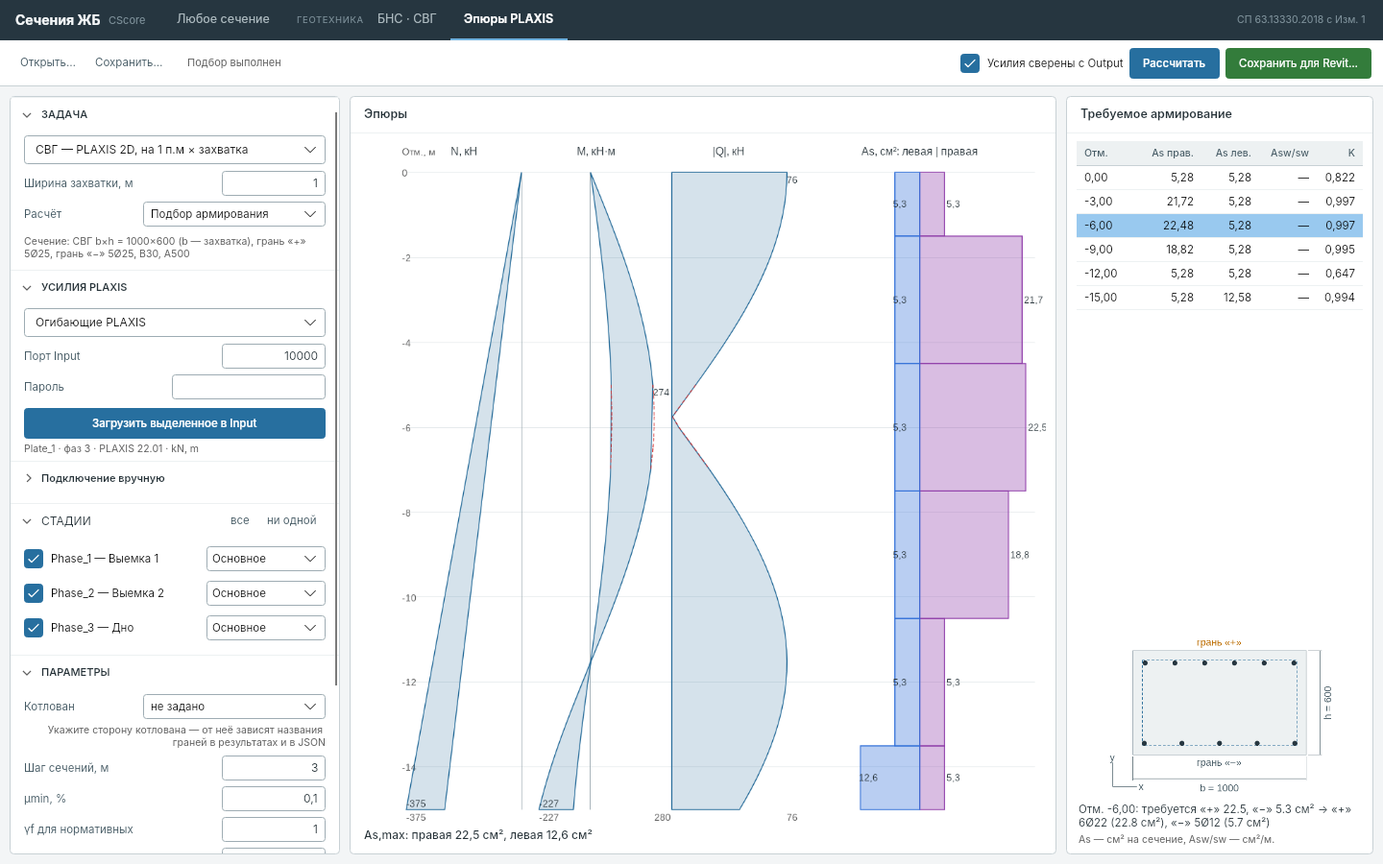
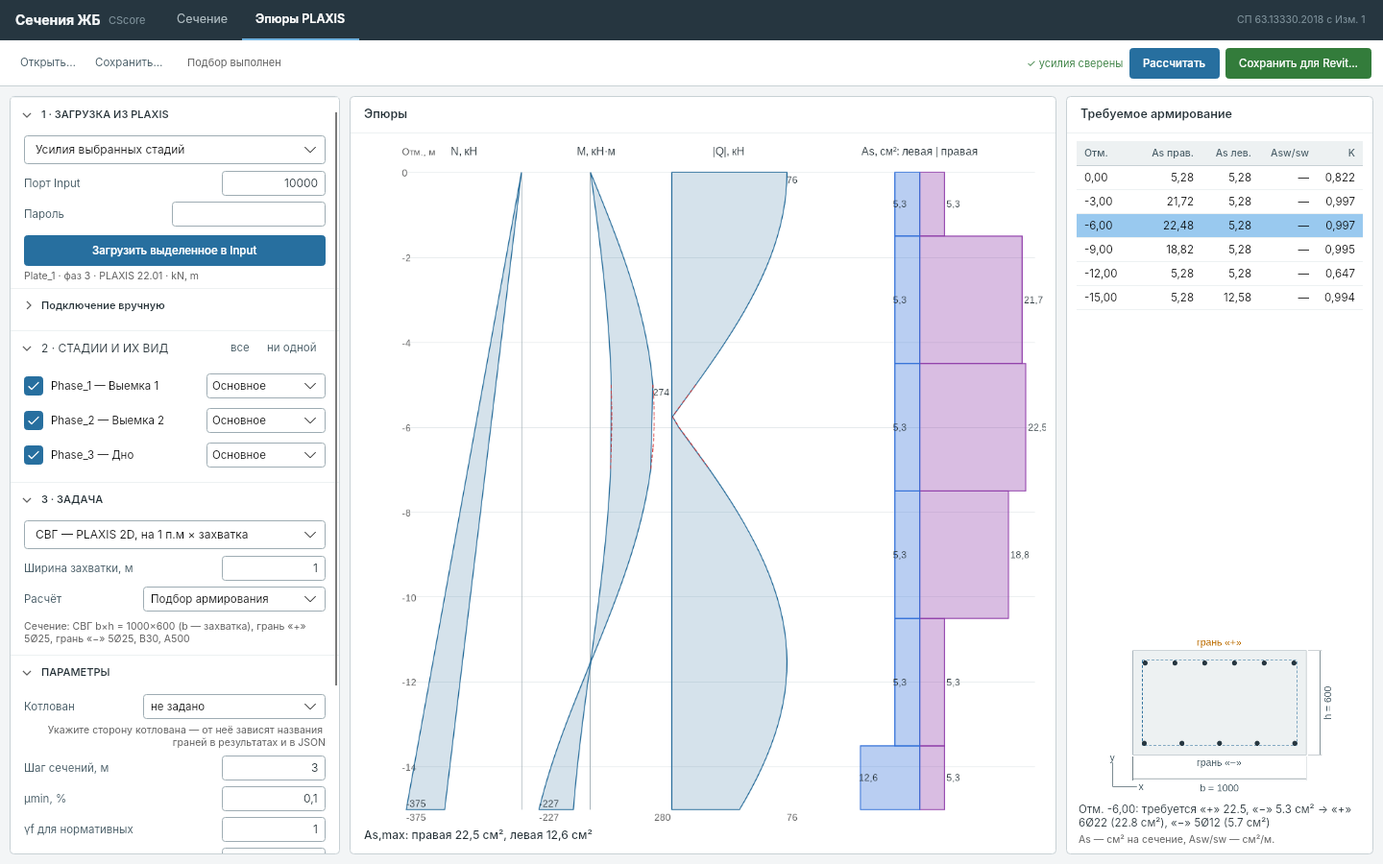
N–M diagram of the section strength (rays of the engine's ultimate factor), results row selects the combination; docs and screenshots
Claude-Session: https://claude.ai/code/session_017Mvt1uZU6GLNrsh8KdL19X

diff --git a/src/SectionCalc/Interaction.cs b/src/SectionCalc/Interaction.cs
@@ -1,0 +1,139 @@
+using SkiaSharp;
+
+namespace SectionCalc;
+
+/// <summary>A point of the interaction diagram: axial force (N &lt; 0 — compression) and moment in one plane.</summary>
+public sealed record InteractionPoint(double N, double M);
+
+/// <summary>A design combination on the diagram.</summary>
+public sealed record InteractionLoad(string Name, double N, double M, bool OtherPlane);
+
+/// <summary>
+/// Strength of the normal section in the plane N–Mx (or N–My): rays of proportional loading from the origin, the
+/// engine's ultimate factor of each ray gives a point of the boundary (portions of rays run in parallel).
+/// Section strength only: no accidental eccentricity, no η (they belong to the combinations, not to the section).
+/// </summary>
+public static class Interaction
+{
+    public const int Rays = 48;
+
+    public static List<InteractionPoint> Curve(SectionProject project, bool planeY, CancellationToken cancel = default)
+    {
+        var p = ProjectStore.Deserialize(ProjectStore.Serialize(project));
+        var c = p.Conditions;
+        c.Eccentricity = EccentricityMode.InLoads; c.SecondOrder = SecondOrderMode.SectionOnly; c.ShearCheck = false; c.InclinedMoment = false;
+        c.ReliabilityUls = 1; c.CrackCategory = CrackCategory.LimitedWidth; c.CoarseMesh = true;
+        // Rays far outside the section: every one fails, so the crack checks are skipped (they need passed strength).
+        var m = MaterialTables.Uls(p, new CombinationKind(false, false, false));
+        var layout = RequestBuilder.Layout(p);
+        var gross = Geometry.Gross(p);
+        double n0 = 3 * (m.Rb * gross.AreaMm2 + m.Rs * layout.SteelAreaMm2) / 1000;
+        double m0 = n0 * (planeY ? gross.HyMm : gross.HxMm) / 1000 / 3;
+        var rays = Enumerable.Range(0, Rays).Select(i =>
+        {
+            double a = 2 * Math.PI * i / Rays, n = n0 * Math.Cos(a), mm = m0 * Math.Sin(a);
+            return new LoadRow { Name = $"r{i}", N = n, Mx = planeY ? 0 : mm, My = planeY ? mm : 0, LoadFactor = 1, SustainedShare = 1 };
+        }).ToList();
+        // Portions of rays in parallel (coarse mesh, as the capacity search of the 3D view).
+        var factors = new double?[Rays];
+        int portion = Math.Max(1, (int)Math.Ceiling(Rays / (double)Math.Max(1, Environment.ProcessorCount)));
+        Parallel.ForEach(Enumerable.Range(0, (Rays + portion - 1) / portion),
+            new ParallelOptions { CancellationToken = cancel, MaxDegreeOfParallelism = Environment.ProcessorCount }, part =>
+        {
+            var q = ProjectStore.Deserialize(ProjectStore.Serialize(p));
+            q.Conditions.CoarseMesh = true;
+            q.Loads = rays.Skip(part * portion).Take(portion).ToList();
+            var r = Engine.Check(q, cancel);
+            foreach (var l in q.Loads)
+                if (r.Cases.TryGetValue(l.Name, out var info)) factors[int.Parse(l.Name[1..])] = info.UltimateFactor;
+        });
+        var curve = new List<InteractionPoint>();
+        for (int i = 0; i < Rays; i++)
+            if (factors[i] is double k && double.IsFinite(k) && k > 0)
+                curve.Add(new InteractionPoint(k * rays[i].N, k * (planeY ? rays[i].My : rays[i].Mx)));
+        return curve;
+    }
+
+    /// <summary>Design combinations in the plane (with γn), the moments as given (before ea and η).</summary>
+    public static List<InteractionLoad> Loads(SectionProject p, bool planeY) => p.Loads.Select(l =>
+    {
+        double gn = l.Special && !l.Seismic ? 1 : p.Conditions.ReliabilityUls;
+        return new InteractionLoad(l.Name.Trim(), l.N * gn, (planeY ? l.My : l.Mx) * gn, Math.Abs(planeY ? l.Mx : l.My) > 1e-9);
+    }).ToList();
+
+    static readonly SKColor Grid = SKColor.Parse("#e3e8ea"), Text = SKColor.Parse("#455a64"), Curve0 = SKColor.Parse("#216897"),
+        Fill = SKColor.Parse("#216897").WithAlpha(28), Point = SKColor.Parse("#263640"), Selected = SKColor.Parse("#d32f2f"), Other = SKColor.Parse("#bd6d00");
+
+    /// <summary>The diagram: M across, compression up (−N), the boundary and the combinations; the selected one in red.</summary>
+    public static byte[] Png(IReadOnlyList<InteractionPoint> curve, IReadOnlyList<InteractionLoad> loads, string? selected, bool planeY,
+        int width = 900, int height = 620, float font = 15)
+    {
+        using var surface = SKSurface.Create(new SKImageInfo(width, height, SKColorType.Rgba8888, SKAlphaType.Premul));
+        var canvas = surface.Canvas;
+        canvas.Clear(SKColors.White);
+        if (curve.Count < 3) return Encode(surface);
+        var xs = curve.Select(c => c.M).Concat(loads.Select(l => l.M)).ToList();
+        var ys = curve.Select(c => -c.N).Concat(loads.Select(l => -l.N)).ToList();
+        double x0 = xs.Min(), x1 = xs.Max(), y0 = ys.Min(), y1 = ys.Max();
+        double padX = (x1 - x0) * 0.06 + 1e-6, padY = (y1 - y0) * 0.06 + 1e-6;
+        (x0, x1, y0, y1) = (x0 - padX, x1 + padX, y0 - padY, y1 + padY);
+        float left = font * 4.2f, right = width - font, top = font * 1.6f, bottom = height - font * 2;
+        SKPoint P(double m, double negN) => new(left + (float)((m - x0) / (x1 - x0)) * (right - left), bottom - (float)((negN - y0) / (y1 - y0)) * (bottom - top));
+        using var f = new SKFont(SectionSketch.Typeface(), font);
+        using var text = new SKPaint { Color = Text, IsAntialias = true };
+        using var grid = new SKPaint { Color = Grid, StrokeWidth = 1, IsAntialias = true };
+        foreach (var (v, vertical) in Ticks(x0, x1).Select(v => (v, true)).Concat(Ticks(y0, y1).Select(v => (v, false))))
+        {
+            if (vertical)
+            {
+                var a = P(v, y0); canvas.DrawLine(a.X, top, a.X, bottom, grid);
+                SectionSketch.Label(canvas, Fmt(v), a.X, bottom + font * 1.3f, SKTextAlign.Center, f, text);
+            }
+            else
+            {
+                var a = P(x0, v); canvas.DrawLine(left, a.Y, right, a.Y, grid);
+                SectionSketch.Label(canvas, Fmt(v), font * 0.4f, a.Y + font * 0.35f, SKTextAlign.Left, f, text);
+            }
+        }
+        using var axis = new SKPaint { Color = SKColor.Parse("#9eacb3"), StrokeWidth = 1.2f, IsAntialias = true };
+        canvas.DrawLine(P(0, y0).X, top, P(0, y0).X, bottom, axis);
+        canvas.DrawLine(left, P(x0, 0).Y, right, P(x0, 0).Y, axis);
+        SectionSketch.Label(canvas, planeY ? "My, кН·м" : "Mx, кН·м", right - font * 4, P(x0, 0).Y - font * 0.5f, SKTextAlign.Center, f, text);
+        SectionSketch.Label(canvas, "−N, кН (сжатие вверх)", left + 4, top + font, SKTextAlign.Left, f, text);
+
+        using var path = new SKPath();
+        path.MoveTo(P(curve[0].M, -curve[0].N));
+        foreach (var c in curve.Skip(1)) path.LineTo(P(c.M, -c.N));
+        path.Close();
+        using var fill = new SKPaint { Color = Fill, IsAntialias = true };
+        using var line = new SKPaint { Color = Curve0, StrokeWidth = 2.2f, Style = SKPaintStyle.Stroke, IsAntialias = true };
+        canvas.DrawPath(path, fill);
+        canvas.DrawPath(path, line);
+
+        foreach (var l in loads.OrderBy(l => l.Name == selected))
+        {
+            bool sel = l.Name == selected;
+            var at = P(l.M, -l.N);
+            using var dot = new SKPaint { Color = sel ? Selected : l.OtherPlane ? Other : Point, IsAntialias = true };
+            canvas.DrawCircle(at, sel ? font * 0.42f : font * 0.3f, dot);
+            SectionSketch.Label(canvas, l.Name, at.X + font * 0.5f, at.Y - font * 0.4f, SKTextAlign.Left, f, sel ? dot : text);
+        }
+        return Encode(surface);
+    }
+
+    static byte[] Encode(SKSurface surface)
+    {
+        using var image = surface.Snapshot();
+        using var data = image.Encode(SKEncodedImageFormat.Png, 100);
+        return data.ToArray();
+    }
+
+    static string Fmt(double v) => v.ToString("0", System.Globalization.CultureInfo.GetCultureInfo("ru-RU"));
+
+    static IEnumerable<double> Ticks(double lo, double hi)
+    {
+        double raw = (hi - lo) / 6, mag = Math.Pow(10, Math.Floor(Math.Log10(raw)));
+        double step = new[] { 1, 2, 2.5, 5, 10 }.Select(k => k * mag).First(s => s >= raw);
+        for (double v = Math.Ceiling(lo / step) * step; v <= hi; v += step) yield return Math.Abs(v) < step * 1e-9 ? 0 : v;
+    }
+}

diff --git a/src/SectionApp/ViewModels/MainViewModel.cs b/src/SectionApp/ViewModels/MainViewModel.cs
@@ -30,7 +30,7 @@ public partial class MainViewModel : ObservableObject, INotifyDataErrorInfo
     [
         nameof(Sketch), nameof(IsBusy), nameof(StatusText), nameof(Progress), nameof(ShowProgress), nameof(HasResult),
         nameof(ResultIsStale), nameof(VerdictText), nameof(VerdictTone), nameof(GoverningText), nameof(InputErrors),
-        nameof(HasInputErrors), nameof(SelectionSummary), nameof(HasSelection), nameof(SteelText), nameof(SelectedTab),
+        nameof(HasInputErrors), nameof(SelectionSummary), nameof(HasSelection), nameof(SteelText), nameof(SelectedTab), nameof(InteractionImage), nameof(InteractionStatus), nameof(InteractionPlaneIndex), nameof(SelectedCombination), nameof(ShowInteraction),
         nameof(VerdictOk), nameof(VerdictBad), nameof(VerdictWarn), nameof(VerdictInfo), nameof(IsWall), nameof(IsPile), nameof(IsCustom),
         nameof(IsGeotech), nameof(KindTitle), nameof(EtaByCscore), nameof(SelectedLoad), nameof(SelectedBar), nameof(SelectedVertex),
         nameof(AxisText), nameof(L0Text), nameof(HasGoverning), nameof(CombinationHeaders), nameof(ProfileMode), nameof(IsSectionMode),
@@ -372,7 +372,69 @@ public partial class MainViewModel : ObservableObject, INotifyDataErrorInfo
     public bool CanCheck => !HasInputErrors;
     [ObservableProperty] string selectionSummary = "";
     [ObservableProperty] bool hasSelection;
+    /// <summary>Tabs of the results: 0 — checks by combination, 1 — the N–M diagram, 2 — selection.</summary>
     [ObservableProperty] int selectedTab;
+    public const int TabChecks = 0, TabDiagram = 1, TabSelection = 2;
+    partial void OnSelectedTabChanged(int value) { if (value == TabDiagram) RefreshInteraction(); }
+
+    // ---- the N–M diagram: the strength of the section and the combinations ----
+
+    [ObservableProperty] Bitmap? interactionImage;
+    [ObservableProperty] string interactionStatus = "";
+    public bool ShowInteraction => InteractionImage is not null;
+    partial void OnInteractionImageChanged(Bitmap? value) => OnPropertyChanged(nameof(ShowInteraction));
+    /// <summary>0 — the plane of Mx, 1 — of My.</summary>
+    [ObservableProperty] int interactionPlaneIndex;
+    public IReadOnlyList<string> InteractionPlanes { get; } = ["N–Mx", "N–My"];
+    partial void OnInteractionPlaneIndexChanged(int value) => RefreshInteraction();
+    List<InteractionPoint>? curve;
+    string? curveKey;
+    CancellationTokenSource? curveCancel;
+
+    /// <summary>The selected combination in the results table: selects the row of the forces and the point on the diagram.</summary>
+    [ObservableProperty] CombinationRowViewModel? selectedCombination;
+    partial void OnSelectedCombinationChanged(CombinationRowViewModel? value)
+    {
+        if (value is not null && Loads.FirstOrDefault(l => l.Name.Trim() == value.Source) is { } row) SelectedLoad = row;
+    }
+    partial void OnSelectedLoadChanged(LoadRowViewModel? value) => DrawInteraction();
+
+    /// <summary>The curve depends on the section and materials, not on the forces: it is kept while they stay.</summary>
+    static string CurveKey(SectionProject p, bool planeY) => System.Text.Json.JsonSerializer.Serialize(new
+    {
+        p.Kind, Geometry = p.Kind switch { SectionKind.Pile => (object)p.Pile, SectionKind.Wall => p.Wall, _ => p.Custom },
+        p.ConcreteClass, p.RebarClass, p.Concrete, p.LongitudinalFactor, p.RscByTable, planeY,
+    });
+
+    async void RefreshInteraction()
+    {
+        if (SelectedTab != TabDiagram || TryBuild(out _) is not { } p) return;
+        bool planeY = InteractionPlaneIndex == 1;
+        string key = CurveKey(p, planeY);
+        if (key == curveKey && curve is not null) { DrawInteraction(); return; }
+        curveCancel?.Cancel();
+        var cts = curveCancel = new CancellationTokenSource();
+        InteractionStatus = "Строится диаграмма несущей способности…";
+        try
+        {
+            var points = await Task.Run(() => Interaction.Curve(p, planeY, cts.Token), cts.Token);
+            if (cts.IsCancellationRequested) return;
+            (curve, curveKey) = (points, key);
+            InteractionStatus = "";
+            DrawInteraction();
+        }
+        catch (OperationCanceledException) { }
+        catch (Exception ex) { InteractionStatus = "Диаграмма не построена: " + ex.Message; }
+    }
+
+    void DrawInteraction()
+    {
+        if (curve is null || SelectedTab != TabDiagram || TryBuild(out _, quiet: true) is not { } p) return;
+        bool planeY = InteractionPlaneIndex == 1;
+        if (curveKey != CurveKey(p, planeY)) { RefreshInteraction(); return; }
+        using var stream = new MemoryStream(Interaction.Png(curve, Interaction.Loads(p, planeY), SelectedLoad?.Name.Trim(), planeY, 1000, 600, 19));
+        InteractionImage = new Bitmap(stream);
+    }
     [ObservableProperty] LoadRowViewModel? selectedLoad;
 
     protected override void OnPropertyChanged(PropertyChangedEventArgs e)
@@ -931,6 +993,7 @@ public partial class MainViewModel : ObservableObject, INotifyDataErrorInfo
         CombinationRows.Clear();
         foreach (var line in ReportWriter.Combinations(r)) CombinationRows.Add(new CombinationRowViewModel(line));
         CombinationHeaders = ReportWriter.CombinationHeaders(r);
+        if (SelectedTab == TabDiagram) DrawInteraction();
         StatusText = $"Рассчитано {DateTime.Now:HH:mm:ss}";
     }
 
@@ -939,7 +1002,7 @@ public partial class MainViewModel : ObservableObject, INotifyDataErrorInfo
         lastSelection = s;
         SelectionRows.Clear();
         foreach (var o in s.Outcomes) SelectionRows.Add(new SelectionRowViewModel(o, o == s.Best, this));
-        HasSelection = true; SelectedTab = 1;
+        HasSelection = true; SelectedTab = TabSelection;
         SelectionSummary = s.Best is SelectionOutcome best
             ? $"Минимальное армирование: {best.Candidate.Description}, As = {best.Candidate.SteelAreaMm2.ToString("0", Ru)} мм²."
             : "В заданном диапазоне подходящих вариантов нет.";
@@ -961,7 +1024,7 @@ public partial class MainViewModel : ObservableObject, INotifyDataErrorInfo
             foreach (var o in keepSelection.Outcomes) SelectionRows.Add(new SelectionRowViewModel(o, o == keepSelection.Best, this));
         }
         await Check();
-        SelectedTab = 0;
+        SelectedTab = TabChecks;
     }
 
     void ClearResults()

diff --git a/tests/SectionCalc.Tests/CustomSectionTests.cs b/tests/SectionCalc.Tests/CustomSectionTests.cs
@@ -131,6 +131,25 @@ public class CustomSectionTests
     }
 
     [Fact]
+    public void InteractionDiagramOfOneEngineRequest()
+    {
+        var p = SectionProject.Example(SectionKind.Wall);
+        p.RscByTable = false;
+        var curve = Interaction.Curve(p, planeY: false);
+        Assert.True(curve.Count >= Interaction.Rays - 4, $"{curve.Count} points");
+        // Pure compression: N = Rb·A + Rs·As (Rsc = Rs here).
+        var m = MaterialTables.Uls(p, new CombinationKind(false, false, false));
+        double nult = (m.Rb * 1000 * 600 + m.Rs * RequestBuilder.Layout(p).SteelAreaMm2) / 1000;
+        Assert.Equal(nult, -curve.Min(c => c.N), nult * 0.03);
+        // Symmetric bars: Mult of both signs at N = 0 are equal; tension is limited by the bars alone.
+        double Near(double sign) => curve.Where(c => Math.Sign(c.M) == sign).OrderBy(c => Math.Abs(c.N)).First().M;
+        Assert.Equal(Near(1), -Near(-1), Math.Abs(Near(1)) * 0.08);
+        Assert.True(curve.Max(c => c.N) <= m.Rs * RequestBuilder.Layout(p).SteelAreaMm2 / 1000 * 1.01);
+        var png = Interaction.Png(curve, Interaction.Loads(p, false), "1", false);
+        Assert.True(png.Length > 5000);
+    }
+
+    [Fact]
     public void ProjectRoundTrip()
     {
         var p = SectionProject.Example(SectionKind.Custom);

diff --git a/tests/SectionApp.Tests/AppTests.cs b/tests/SectionApp.Tests/AppTests.cs
@@ -206,6 +206,12 @@ public class AppTests
         Assert.NotEmpty(vm.SummaryRows);
         Assert.Contains(vm.VerdictTone, new[] { "ok", "bad", "warn" });
         Snapshot(window, "05-pile-checked");
+        // A combination picked in the results selects its row; the diagram shows the section strength with the points.
+        vm.SelectedCombination = vm.CombinationRows[1];
+        Assert.Equal("2", vm.SelectedLoad!.Name);
+        vm.SelectedTab = MainViewModel.TabDiagram;
+        await Until(() => vm.ShowInteraction, 60000);
+        Snapshot(window, "05b-pile-diagram");
         vm.PileBarCount = "16";
         Assert.True(vm.ResultIsStale);
     }
@@ -222,7 +228,7 @@ public class AppTests
         await best.ApplyCommand.ExecuteAsync(null);
         Assert.True(vm.HasResult);
         Assert.Equal("ok", vm.VerdictTone);
-        Assert.Equal(0, vm.SelectedTab);
+        Assert.Equal(MainViewModel.TabChecks, vm.SelectedTab);
         Assert.True(vm.HasSelection);
         Snapshot(window, "07-wall-applied");
     }

diff --git a/src/SectionApp/ViewModels/RowViewModels.cs b/src/SectionApp/ViewModels/RowViewModels.cs
@@ -104,6 +104,8 @@ public partial class BarRowViewModel(MainViewModel owner, string x, string y, st
 public sealed class CombinationRowViewModel(CombinationLine line)
 {
     public string Name => line.Name;
+    /// <summary>Name of the combination in the forces table ("С1" of "С1 · сейсмическое").</summary>
+    public string Source => line.Name.Split(" · ")[0];
     public string C0 => line.Cells[0];
     public string C1 => line.Cells[1];
     public string C2 => line.Cells[2];

diff --git a/docs/profile-module.md b/docs/profile-module.md
@@ -1,6 +1,6 @@
 # Модуль «Эпюры PLAXIS» — армирование сваи или стены по всей длине
 
-Модуль «Эпюры PLAXIS» приложения «Сечения ЖБ» (режим «Геотехника», переключатель в заголовке окна). Берёт расчётные
+Режим «Эпюры PLAXIS» приложения «Сечения ЖБ» (переключатель в заголовке окна). Берёт расчётные
 усилия выбранного элемента из PLAXIS 2D Output (или группы свай из PLAXIS 3D), для каждого сечения по длине строит РСУ,
 подбирает требуемую продольную арматуру и Asw/sw и сохраняет эпюру армирования в JSON для
 модуля армирования в Revit ([формат](reinforcement-profile-json.md)).
@@ -15,6 +15,20 @@
 
 Модуль только читает модель и результаты: проект PLAXIS не меняется.
 
+
+## Порядок работы (кратко)
+
+Панель слева идёт по шагам: **1 · Загрузка из PLAXIS** (выделить в Input и «Загрузить»; по
+умолчанию — усилия выбранных стадий, N, M и Q одной стадии действуют вместе; огибающие —
+опция), **2 · Стадии и их вид** (вид новой стадии — по названию: «сейсм» — сейсмическая,
+«особ»/«авар» — особая, «кратковр» — кратковременная; если стадия названа сейсмической, а
+стоит «Основное», — предупреждение), **3 · Задача** (сценарий выбирается по модели и
+показывается только для PLAXIS 2D; группа свай 3D сразу ставит типизацию, остальное — подбор).
+При первом «Рассчитать» программа показывает единицы, наибольшие N, M, Q на элемент, знак M
+и виды стадий — подтвердите, что они совпадают с Output; при смене единиц или знака вопрос
+повторится. После типизации над кривой «сталь ↔ число типов» — рекомендация: наименьшее число
+типов, после которого следующий тип экономит меньше 3 % стали (щелчок — собрать с ним).
+
 ## Порядок работы
 
 0. Карточка **«Задача»**:
@@ -25,7 +39,7 @@
      | Сваи ограждения (БСС, БНС с шагом) | 2D, Plate или Embedded beam row | на 1 п.м × **шаг свай** | БНС |
      | Сваи из 3D | 3D, Embedded beam / Beam | на сваю; группа — единое армирование | БНС |
 
-     Тип сечения в режиме «БНС · СВГ» переключается по сценарию; после загрузки сценарий
+     Тип сечения в режиме «Сечение» (плитка БНС или СВГ) переключается по сценарию; после загрузки сценарий
      предлагается по модели (3D → сваи 3D, Embedded beam row → сваи ограждения);
    - **расчёт**: «Подбор армирования» — требуемая As по длине (для Revit) или «Проверка сечения» —
      сечение из режима «БНС · СВГ» как задано (стержни, ряды, хомуты) по всей длине: Kmax каждого
@@ -85,7 +99,7 @@
      стадии до устройства сваи, где N = 0; если Nmax = 0 по всей длине при сжатии в Nmin, пара
      «N = 0 с Mmax» (изгиб без сжатия) не учитывается — иначе армирование сжатых свай завышается.
      Под галочкой — сколько таких свай (веток). Точнее всего — «Усилия выбранных стадий»: N, M, Q одновременны;
-   - «Поперечная арматура (проверка Q)» — та же настройка, что в «БНС · СВГ» → «Поперечная сила Q» (там шаг и
+   - «Поперечная арматура (проверка Q)» — та же настройка, что в «Сечение» → «Поперечная сила Q» (там шаг и
      ветви); нужно подтвердить конструктивные требования, иначе Q не проверяется и Asw — «—»;
    - **срезка пиков** M и/или Q (на ответственность инженера): зоны «от — до отметки», по хорде
      (эпюра внутри заменяется прямой между значениями на границах) или до заданного значения;

diff --git a/WORK_LOG.md b/WORK_LOG.md
@@ -681,3 +681,21 @@ structuralcodes с тем же Rsc — `docs/crosscheck`. В отчёте — с
 5. Стадии «Сейсмика…» стояли как основные: трещины считались при сейсмике и определяли армирование
    (30Ø40/18Ø40/11Ø40, 67 т). Новая стадия с «сейсм» в названии — сейсмическая; для сохранённых — предупреждение.
    С сейсмическими стадиями: 12Ø40 / 15Ø32 / 12Ø32, K 0,98/0,91/0,90, 35 т (свой каркас на сваю — 29 т).
+
+## 30.10.2026 — упрощение интерфейса и режимов
+
+1. Два режима: «Сечение» (БНС и СВГ — плитки рядом с формами любого сечения, геотехнические поля и
+   проверки прежние) и «Эпюры PLAXIS». Пересчёт всегда автоматический (F5 — принудительно).
+2. γf и kдл — «для всех строк» над таблицей; столбцы — по галочке или когда значения разные.
+   Коэффициенты материалов — строкой-сводкой. Защитный слой — один отсчёт (до стержней в свету),
+   прежние файлы пересчитываются. «Подобрать армирование» — в итоге при K > 1.
+3. Сеанс: последнее сечение при запуске, недавние файлы, последняя папка
+   (%AppData%/CScore/SectionApp); отчёт Word открывается после сохранения.
+4. Ошибки у полей: INotifyDataErrorInfo, имя поля — выражение аргумента в TryBuild
+   (CallerArgumentExpression); красная рамка, текст во всплывающей подсказке.
+5. PLAXIS: подтверждение усилий диалогом (единицы, экстремумы на элемент, знак M, виды стадий)
+   вместо флажка; по умолчанию усилия стадий; вид стадии по названию; шаги 1–2–3; задача по
+   модели (3D-группа — типизация); рекомендуемое число типов (колено кривой, < 3 %).
+6. Диаграмма N–M / N–My: граница прочности сечения лучами пропорционального нагружения (kult ядра),
+   48 лучей параллельно на грубой сетке — 5 с на 4 ядрах, в фоне при открытой вкладке; точки
+   сочетаний; выбор строки результатов выделяет сочетание в таблице и на диаграмме.
